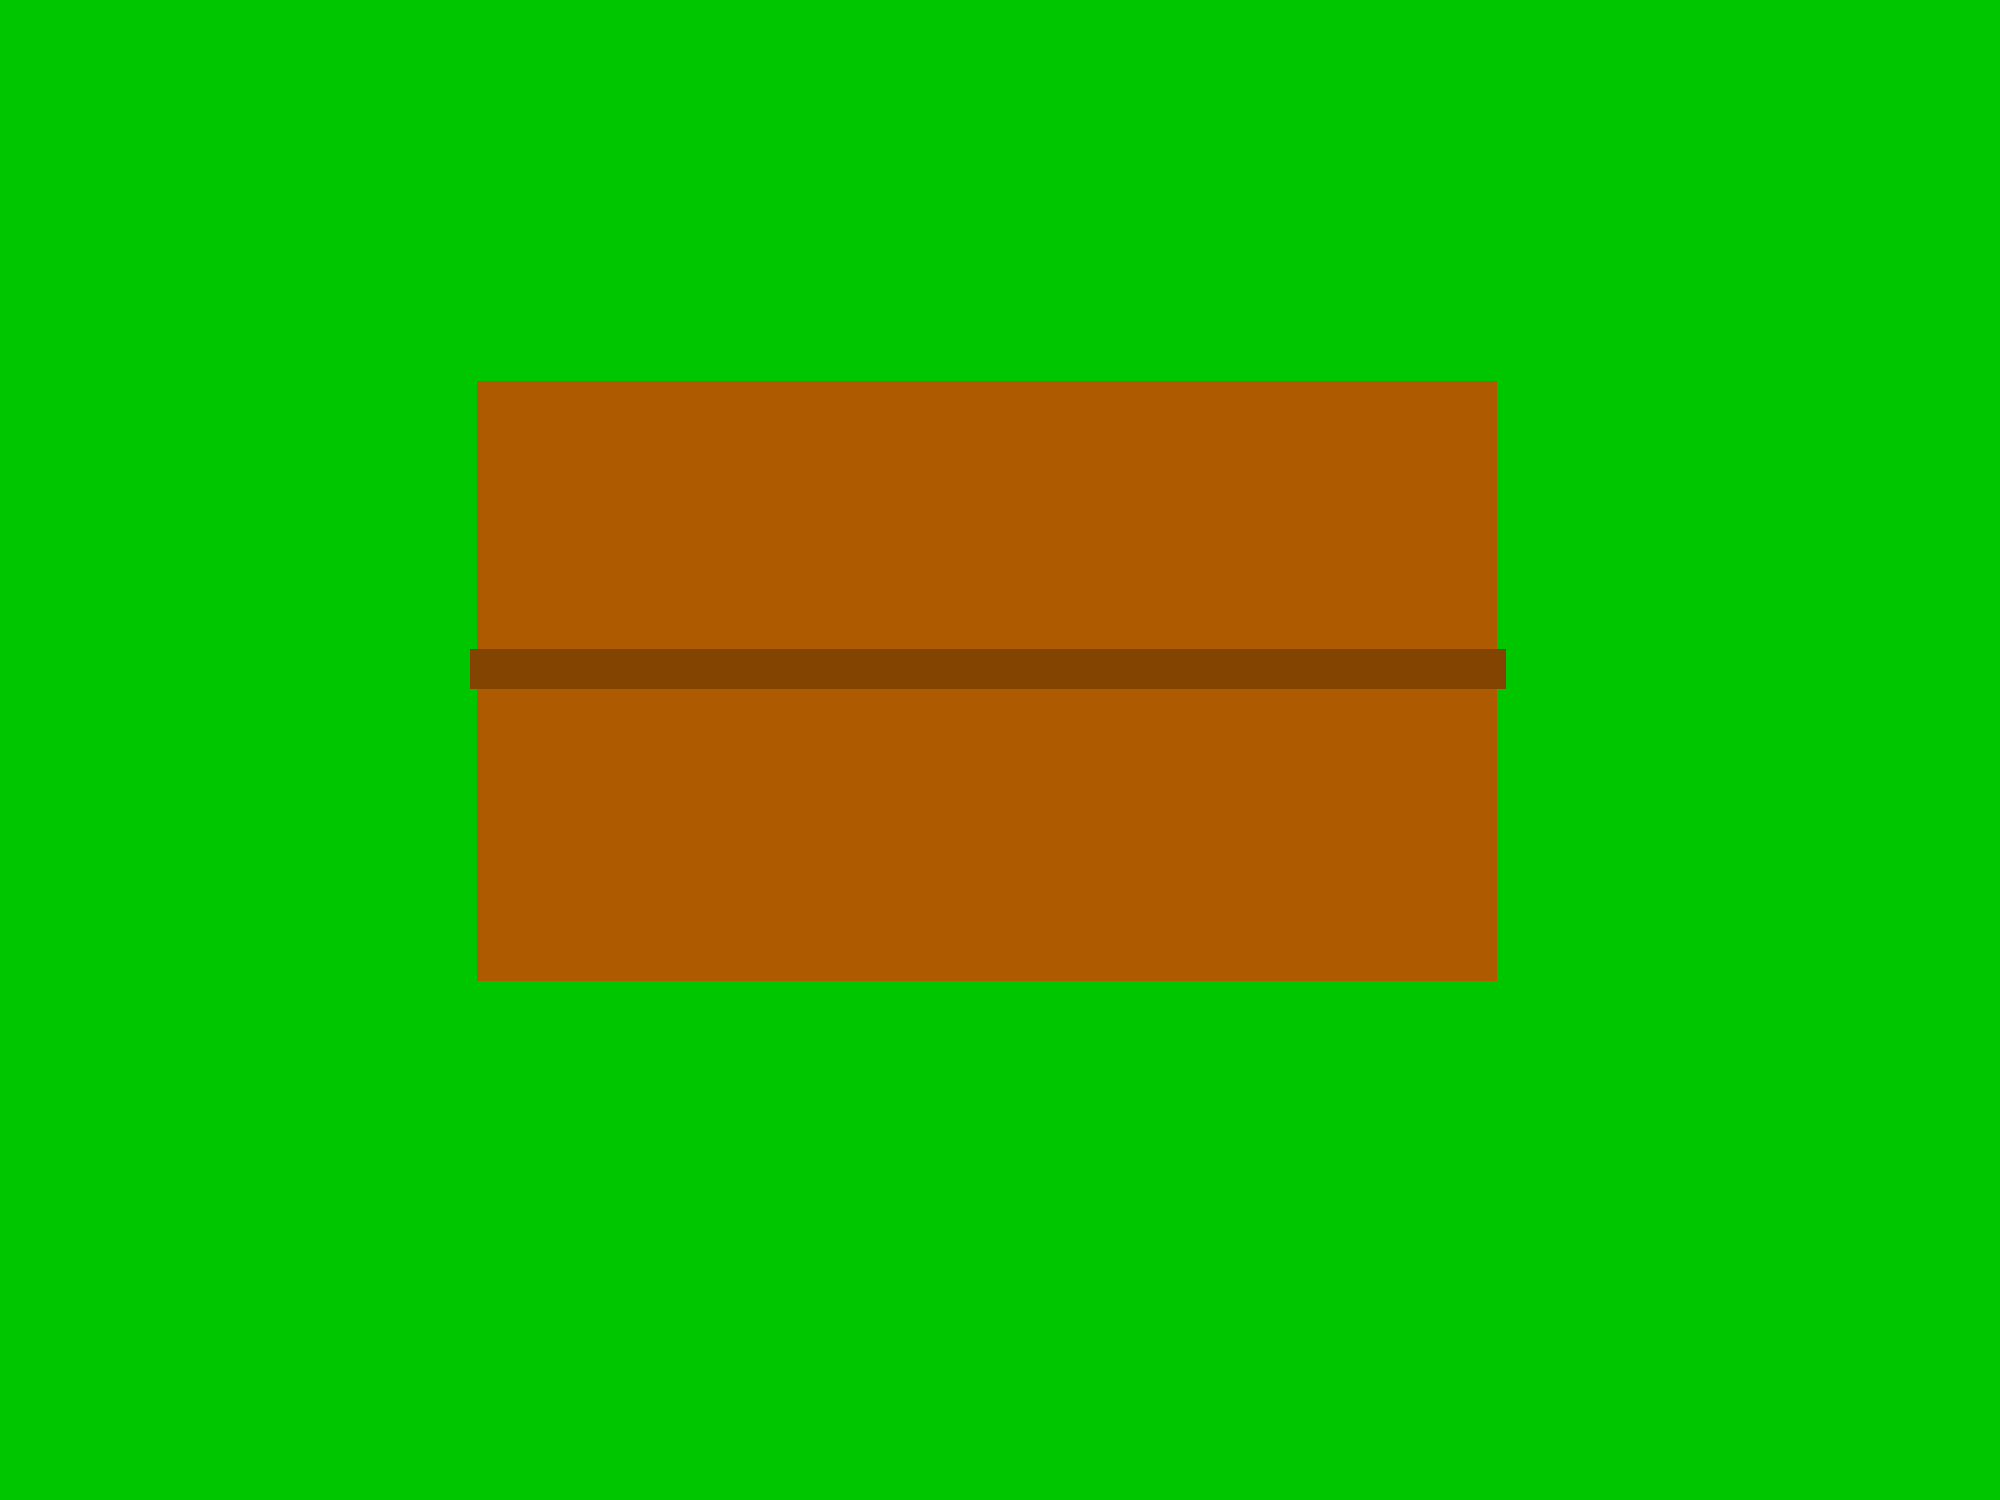
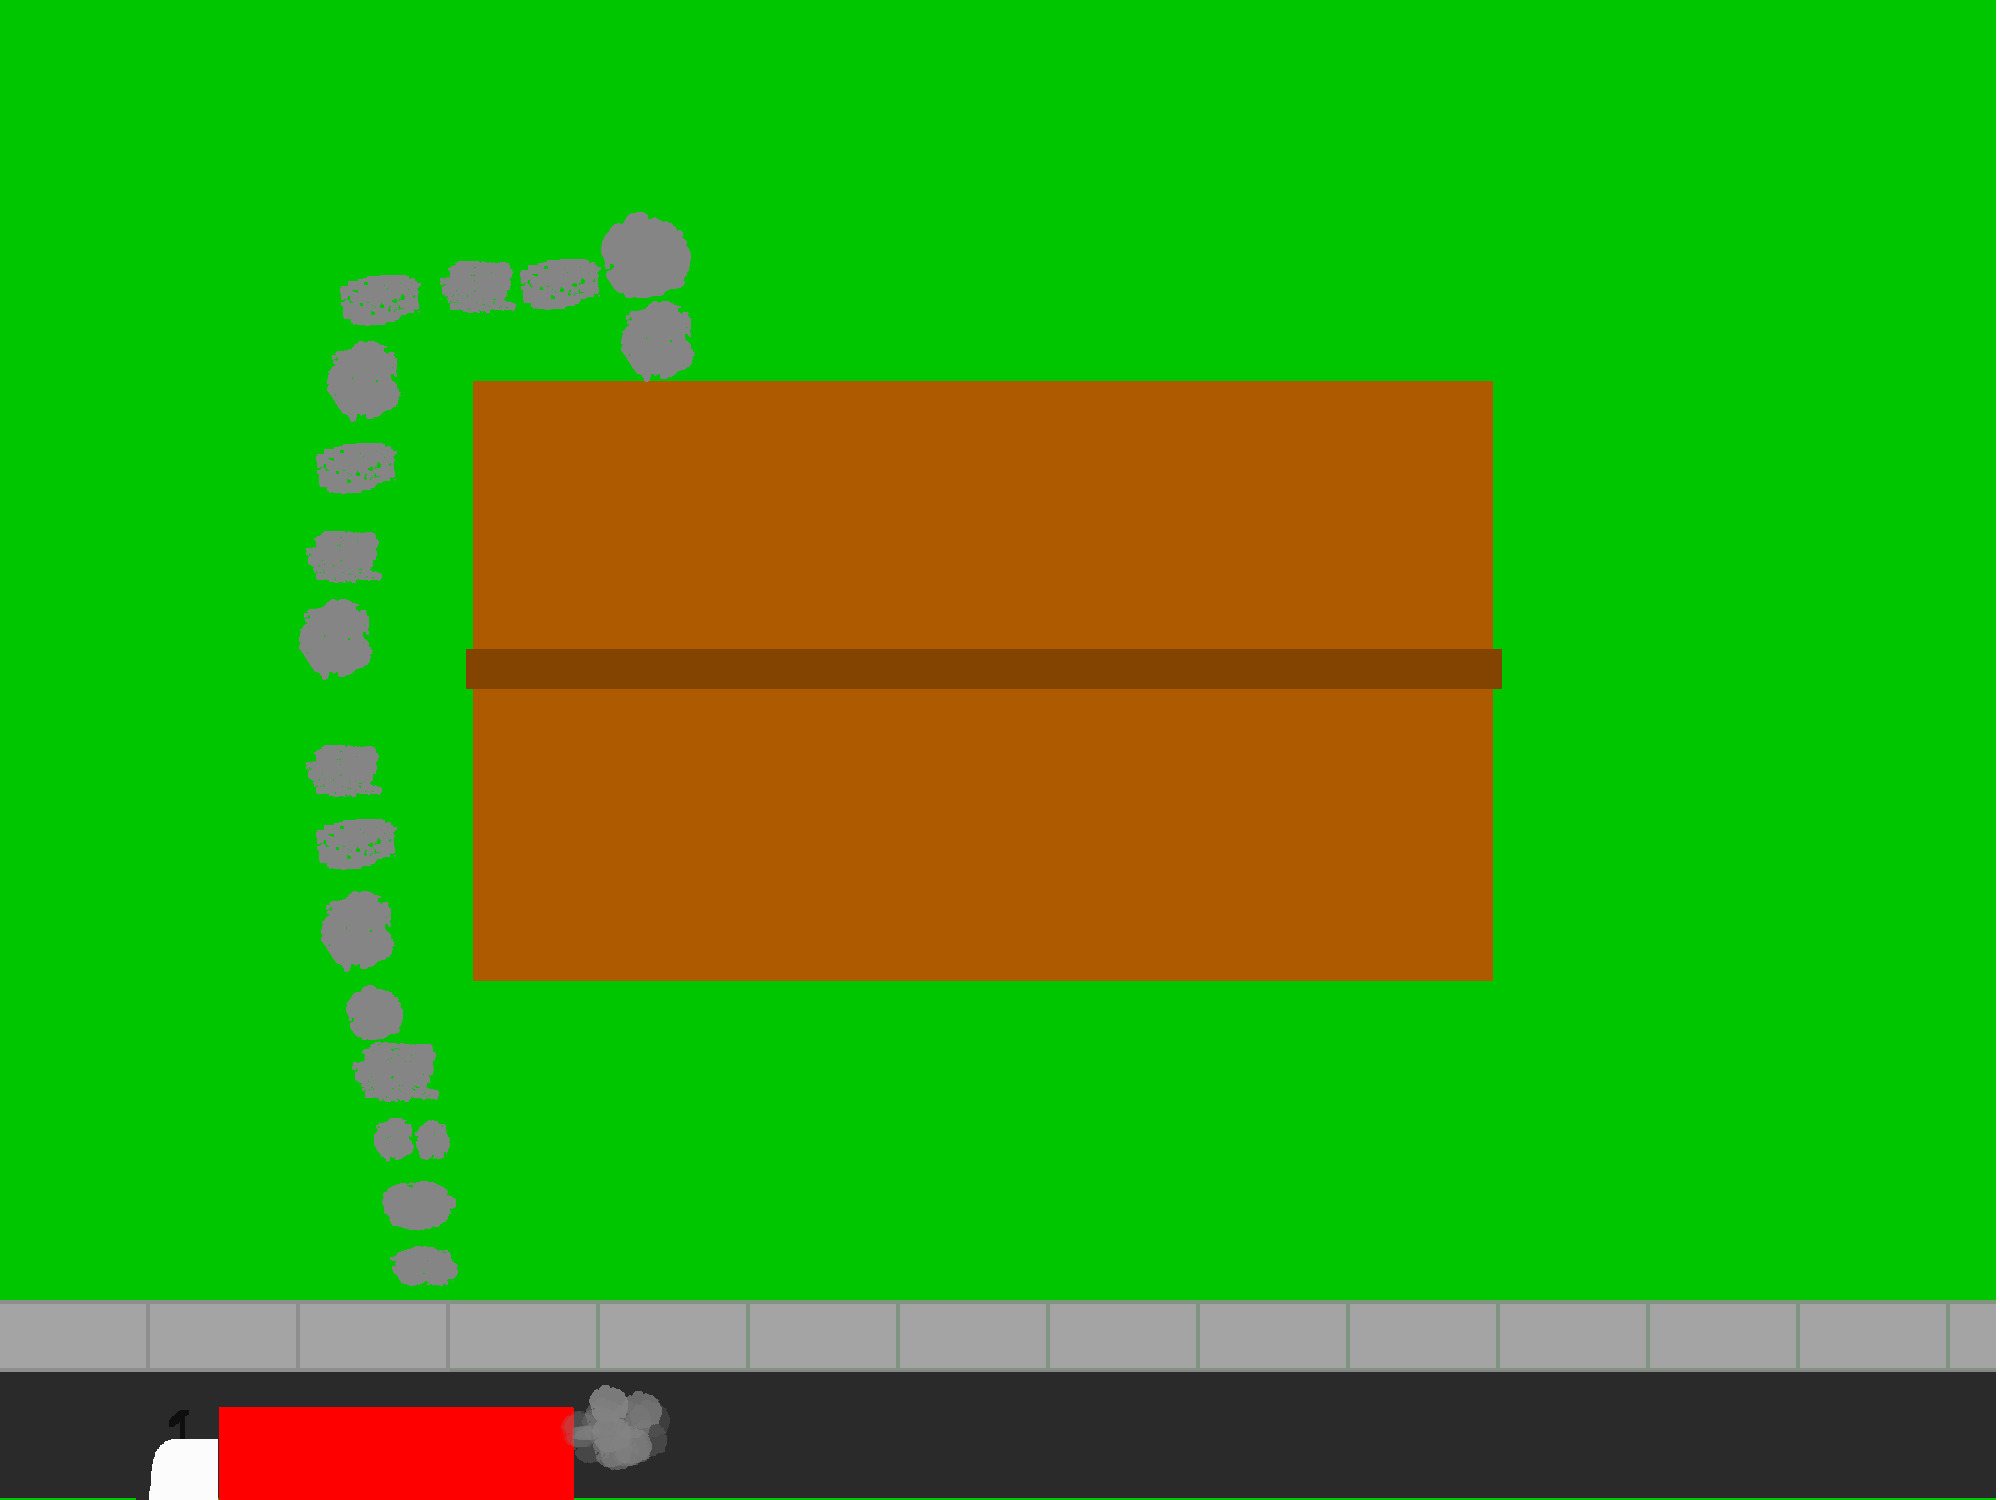
pfeile werden erst aktiv bei Sieg

Changed region(s): [[0.0, 0.0, 1.0, 1.0], [0.155, 0.1227, 0.372, 0.46]]

diff --git a/code/src/main.cpp b/code/src/main.cpp
@@ -439,43 +439,50 @@ int main(void)
             // Auf Pfeile achten: -> Wenn ja, wohin Teleportieren?
             int pfeilNummer = aktuellesLevel->checkCollisionPfeile(spielerEcken);
 
-            // Wenn mit Pfeil geschnitten
-            /*if(pfeilNummer != -1)
+            if(aktuellesLevel->farbe != 0 || (aktuellesLevel->farbe == 0 && spiel.gewonnen == true))
             {
-                // Lese x/y Koordinaten heraus, bevor sie verworfen werden!
-                float spielerX = aktuellesLevel->pfeile[pfeilNummer]->nX;
-                float spielerY = aktuellesLevel->pfeile[pfeilNummer]->nY;
-
-                // Neues Level laden
-                aktuellesLevel = levelLaden(aktuellesLevel->deckeName); // ( deckeName wurde aus Leveldatei geladen )
-
-                // Neues Level anzeigen
-                aktuellesLevel->loadToScreen(hintergrundTextur, hintergrund, renderList, animationList);
-
-                // Spieler an die dem i-ten Pfeil zugehörigen Position im neuen Level positionieren
-                spieler.setPosition(spielerX, spielerY);
-
-                // Wenn das Level dunkel ist
-                if(aktuellesLevel->dunkel)
+                // Wenn mit Pfeil geschnitten
+                if(pfeilNummer != -1)
                 {
-                    renderList.push_back(&dunkel);
-                    renderList.push_back(&schallAnimation.sprite);
-                    schallPegel = 0; // zurücksetzen
+                    // Lese x/y Koordinaten heraus, bevor sie verworfen werden!
+                    float spielerX = aktuellesLevel->pfeile[pfeilNummer]->nX;
+                    float spielerY = aktuellesLevel->pfeile[pfeilNummer]->nY;
+
+                    // Neues Level laden
+                    aktuellesLevel = levelLaden(aktuellesLevel->deckeName); // ( deckeName wurde aus Leveldatei geladen )
+
+                    // Neues Level anzeigen
+                    aktuellesLevel->loadToScreen(hintergrundTextur, hintergrund, renderList, animationList);
+
+                    // Spieler an die dem i-ten Pfeil zugehörigen Position im neuen Level positionieren
+                    spieler.setPosition(spielerX, spielerY);
+
+                    // Wenn das Level dunkel ist
+                    if(aktuellesLevel->dunkel)
+                    {
+                        if(aktuellesLevel->Wert == 1)
+                            dunkelTextur.loadFromFile("resources/DunkelDecke.png");
+                        else
+                            dunkelTextur.loadFromFile("resources/Dunkel.png");
+                        renderList.push_back(&dunkel);
+                        renderList.push_back(&schallAnimation.sprite);
+                        schallPegel = 0; // zurücksetzen
+                    }
+
+                    // Spieler und Benachrichtigungen wieder anzeigen
+                    renderList.push_back(&spieler);
+                    renderList.push_back((sf::Drawable *)&zeit.text);
+                    renderList.push_back((sf::Drawable *)&anzahlPunkte.text);
+                    renderList.push_back((sf::Drawable *)&version.text);
+                    renderList.push_back((sf::Drawable *)&debugMsg.text);
+                    renderList.push_back((sf::Drawable *)&debugMsg2.text);
+                    renderList.push_back((sf::Drawable *)&console::eingabeFeld);
+
+                    // Zeit für das Level zurücksetzen
+                    Uhr.restart();
+
                 }
-
-                // Spieler und Benachrichtigungen wieder anzeigen
-                renderList.push_back(&spieler);
-                renderList.push_back((sf::Drawable *)&zeit.text);
-                renderList.push_back((sf::Drawable *)&anzahlPunkte.text);
-                renderList.push_back((sf::Drawable *)&version.text);
-                renderList.push_back((sf::Drawable *)&debugMsg.text);
-                renderList.push_back((sf::Drawable *)&debugMsg2.text);
-                renderList.push_back((sf::Drawable *)&console::eingabeFeld);
-
-                // Zeit für das Level zurücksetzen
-                Uhr.restart();
-
-            }*/
+            }
 
             // Schätze einsammeln
             if(sf::Keyboard::isKeyPressed(sf::Keyboard::E) && verzoegerung.getElapsedTime().asSeconds() > 0.2)
@@ -807,8 +814,9 @@ int main(void)
 
         }
 
+        int pfeilNummer = aktuellesLevel->checkCollisionPfeile(spielerEcken);
 
-        if(spiel.checkSieg() && spiel.gewonnen == false)
+        if(spiel.checkSieg() && spiel.gewonnen == false && aktuellesLevel->farbe == 0)
         {
             // Animationen nur einmal starten!
             spiel.gewonnen = true;
@@ -819,41 +827,44 @@ int main(void)
             {
                 aktuellesLevel->pfeile[i]->p->start();
             }
+            cout << "nope" << pfeilNummer << endl;
+             /*if(pfeilNummer == -1)
+                {
+                    cout << "jipp";
+                    // Lese x/y Koordinaten heraus, bevor sie verworfen werden!
+                    float spielerX = aktuellesLevel->pfeile[pfeilNummer]->nX;
+                    float spielerY = aktuellesLevel->pfeile[pfeilNummer]->nY;
 
+                    // Neues Level laden
+                    aktuellesLevel = levelLaden(aktuellesLevel->deckeName); // ( deckeName wurde aus Leveldatei geladen )
 
+                    // Neues Level anzeigen
+                    aktuellesLevel->loadToScreen(hintergrundTextur, hintergrund, renderList, animationList);
 
+                    // Spieler an die dem i-ten Pfeil zugehörigen Position im neuen Level positionieren
+                    spieler.setPosition(spielerX, spielerY);
 
+                    // Wenn das Level dunkel ist
+                    if(aktuellesLevel->dunkel)
+                    {
+                        renderList.push_back(&dunkel);
+                        renderList.push_back(&schallAnimation.sprite);
+                        schallPegel = 0; // zurücksetzen
+                    }
 
-// sollte so aussehen aber eben nicht von Kollision sondern von Sieg abhängig
-/*
-        int Kollision = aktuellesLevel->checkCollisionPfeile(spielerEcken);
-        if(Kollision == -1)
-        {
-            for(int i = 0; i<aktuellesLevel->pfeile.size(); i++)
-            {
-                aktuellesLevel->pfeile[i]->p->start();
-            }
-        }
-*/
+                    // Spieler und Benachrichtigungen wieder anzeigen
+                    renderList.push_back(&spieler);
+                    renderList.push_back((sf::Drawable *)&zeit.text);
+                    renderList.push_back((sf::Drawable *)&anzahlPunkte.text);
+                    renderList.push_back((sf::Drawable *)&version.text);
+                    renderList.push_back((sf::Drawable *)&debugMsg.text);
+                    renderList.push_back((sf::Drawable *)&debugMsg2.text);
+                    renderList.push_back((sf::Drawable *)&console::eingabeFeld);
 
+                    // Zeit für das Level zurücksetzen
+                    Uhr.restart();
 
-
-
-
-
-            /* spiel.punkte = 0;
-            aktuellesLevel = levelLaden("hauptmenu");
-            aktuellesLevel->loadToScreen(hintergrundTextur, hintergrund, renderList, animationList);
-
-            // Spieler in die hauptmenu Level positionieren
-            spieler.setPosition(520, 375);
-
-            // Den Spieler wieder anzeigen
-            renderList.push_back(&spieler);
-            renderList.push_back((sf::Drawable *)&version.text);
-            renderList.push_back((sf::Drawable *)&debugMsg.text);
-            renderList.push_back((sf::Drawable *)&debugMsg2.text);
-            renderList.push_back((sf::Drawable *)&console::eingabeFeld); */
+                }*/
         }
     }
 

diff --git a/code/src/level.cpp b/code/src/level.cpp
@@ -37,7 +37,6 @@ void level::loadFromFile(void)
     levelDatei >> spielerPosition.x >> spielerPosition.y;
 
     //Wert zum Angeben ob draussen( =1) oder drinnen( !=1) oder Hauptmenu( =2)
-    int Wert;
     levelDatei >> Wert;
 
     //Wert um anzugeben welche Punktezahl erreicht werden muss
@@ -48,7 +47,7 @@ void level::loadFromFile(void)
 
     // Anzahl Pfeile einlesen
     levelDatei >> N;
-    unsigned int x, y, nX, nY, farbe;
+    unsigned int x, y, nX, nY;
     int r;
     for(unsigned int i=0; i<N; i++)
     {

diff --git a/code/src/level.h b/code/src/level.h
@@ -34,6 +34,8 @@ public:
     void schallAnzeige(int i);
 
     int Punkt;
+    unsigned int farbe;
+    int Wert;
 
     list<sf::FloatRect> mauern;
     list<sf::FloatRect> schaetzePositionen;
